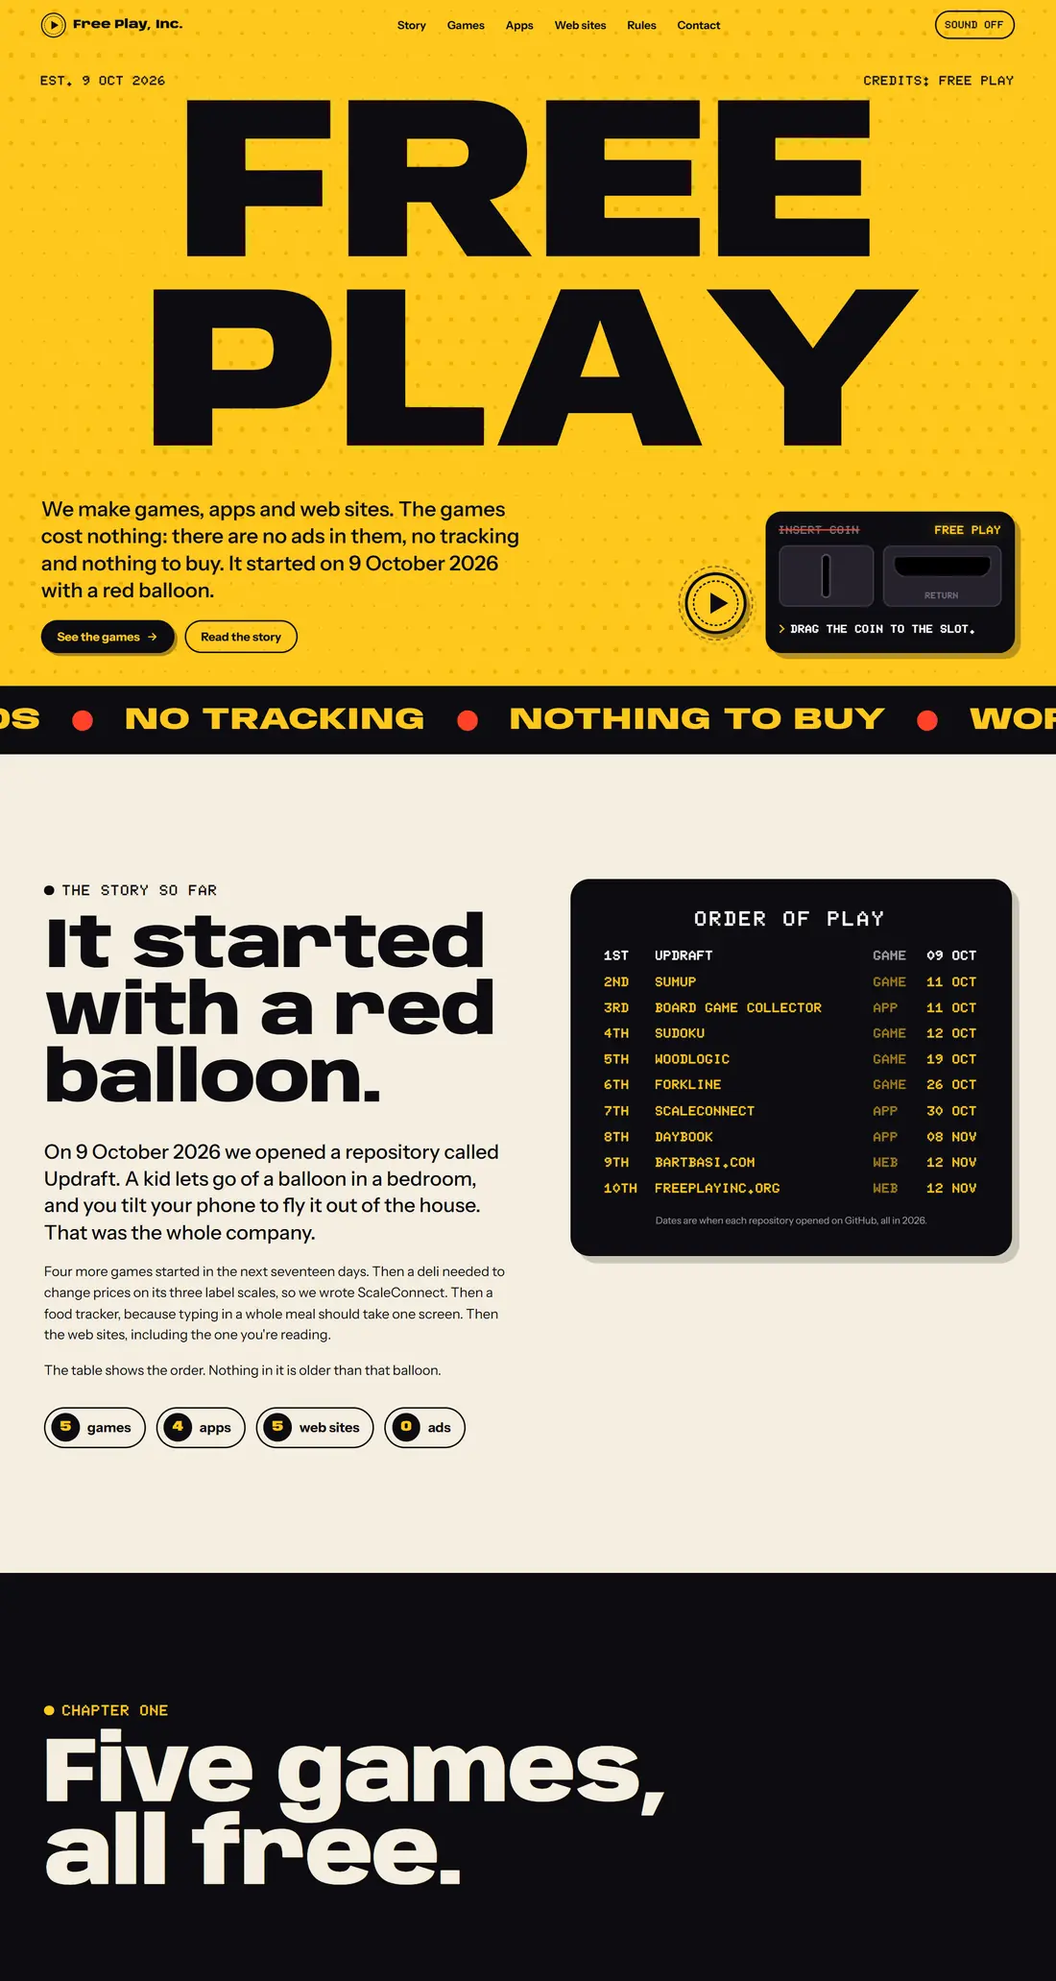
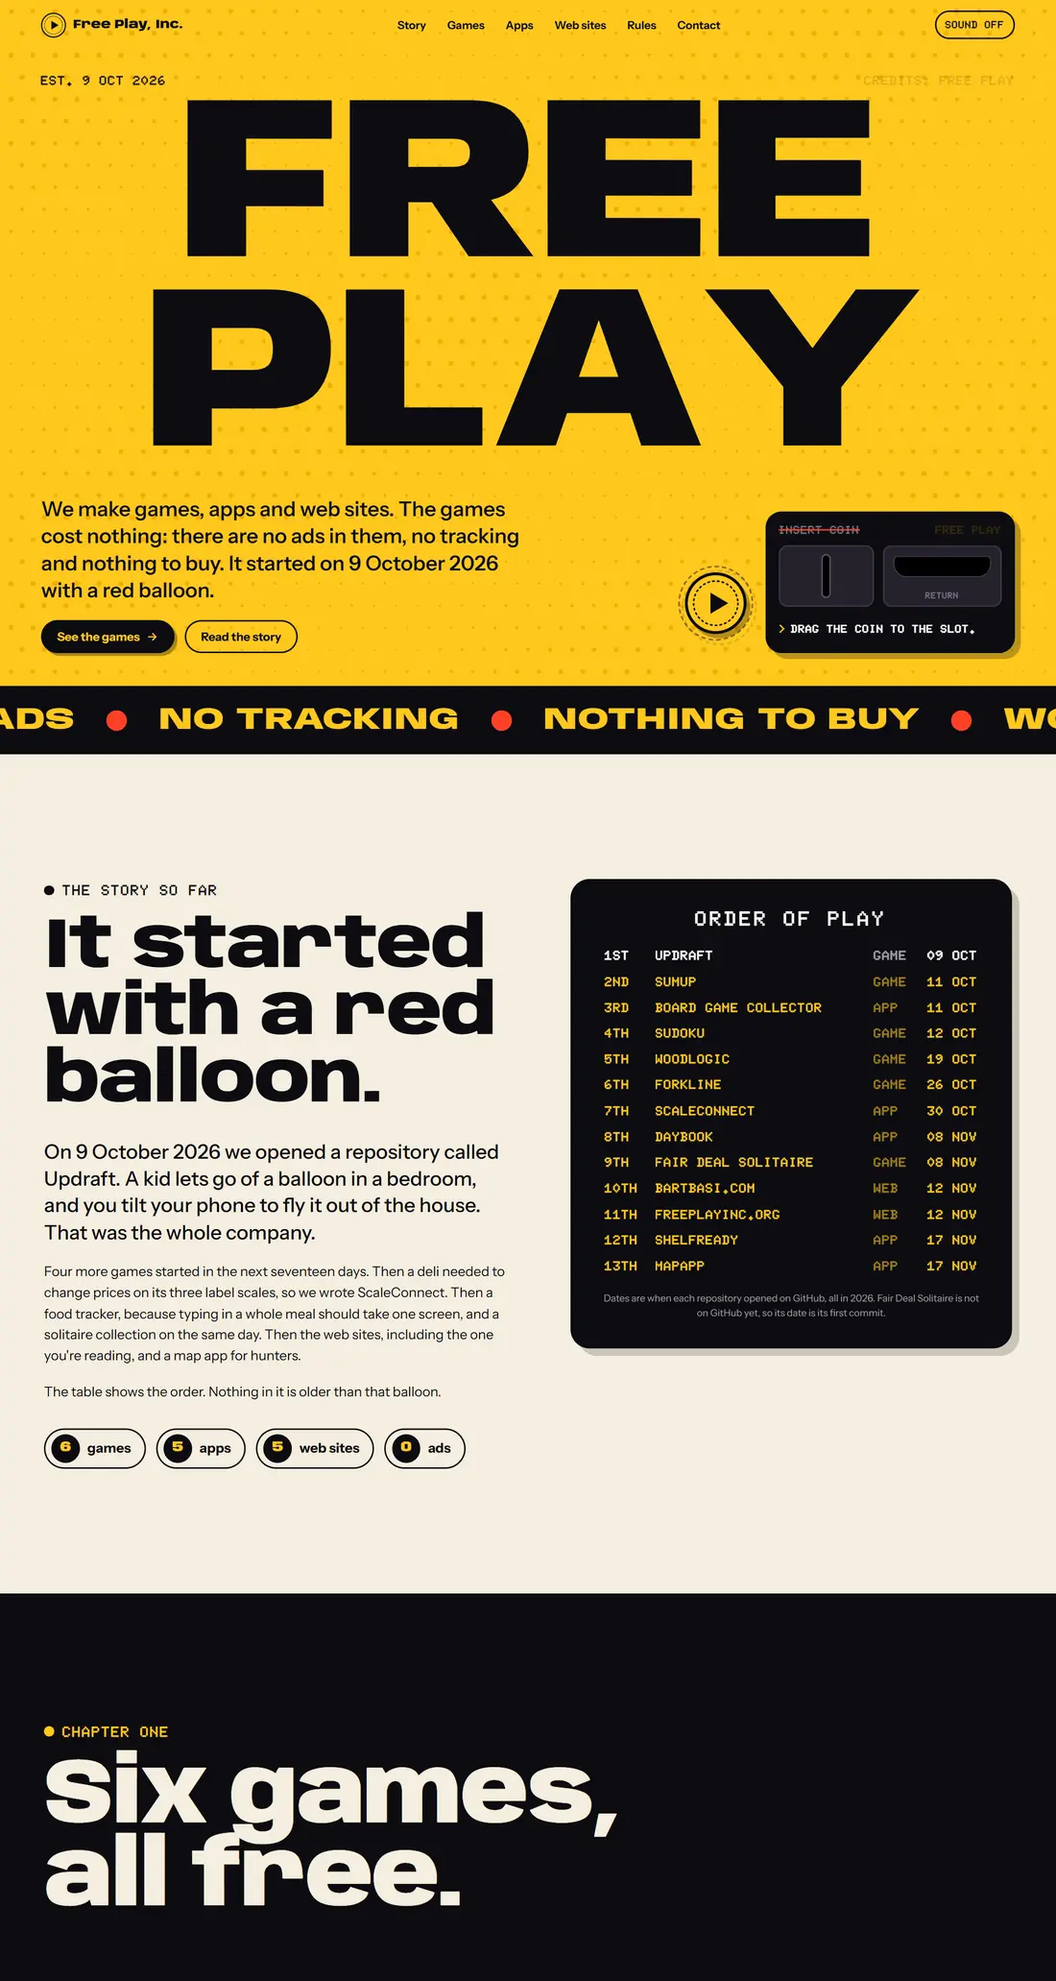
Add Fair Deal Solitaire and MapApp, and update ShelfReady
Matches freeplayinc.org: a sixth game, a fifth app, and the ShelfReady
section rewritten from its public repository.

diff --git a/index.html b/index.html
@@ -111,11 +111,11 @@
       <p class="eyebrow" data-rv>The story so far</p>
       <h2 class="h2" data-rv>It started with a red balloon.</h2>
       <p class="big" data-rv>On 9 October 2026 we opened a repository called Updraft. A kid lets go of a balloon in a bedroom, and you tilt your phone to fly it out of the house. That was the whole company.</p>
-      <p data-rv>Four more games started in the next seventeen days. Then a deli needed to change prices on its three label scales, so we wrote ScaleConnect. Then a food tracker, because typing in a whole meal should take one screen. Then the web sites, including the one you're reading.</p>
+      <p data-rv>Four more games started in the next seventeen days. Then a deli needed to change prices on its three label scales, so we wrote ScaleConnect. Then a food tracker, because typing in a whole meal should take one screen, and a solitaire collection on the same day. Then the web sites, including the one you're reading, and a map app for hunters.</p>
       <p data-rv>The table shows the order. Nothing in it is older than that balloon.</p>
       <ul class="tally" data-rv>
-        <li><b>5</b> games</li>
-        <li><b>4</b> apps</li>
+        <li><b>6</b> games</li>
+        <li><b>5</b> apps</li>
         <li><b>5</b> web sites</li>
         <li><b>0</b> ads</li>
       </ul>
@@ -132,10 +132,13 @@
         <li><a href="#forkline"><span>6th</span><span>Forkline</span><span>Game</span><time datetime="2026-10-26">26 Oct</time></a></li>
         <li><a href="#scaleconnect"><span>7th</span><span>ScaleConnect</span><span>App</span><time datetime="2026-10-30">30 Oct</time></a></li>
         <li><a href="#daybook"><span>8th</span><span>Daybook</span><span>App</span><time datetime="2026-11-08">08 Nov</time></a></li>
-        <li><a href="#web"><span>9th</span><span>bartbasi.com</span><span>Web</span><time datetime="2026-11-12">12 Nov</time></a></li>
-        <li><a href="#web"><span>10th</span><span>freeplayinc.org</span><span>Web</span><time datetime="2026-11-12">12 Nov</time></a></li>
+        <li><a href="#fairdeal"><span>9th</span><span>Fair Deal Solitaire</span><span>Game</span><time datetime="2026-11-08">08 Nov</time></a></li>
+        <li><a href="#web"><span>10th</span><span>bartbasi.com</span><span>Web</span><time datetime="2026-11-12">12 Nov</time></a></li>
+        <li><a href="#web"><span>11th</span><span>freeplayinc.org</span><span>Web</span><time datetime="2026-11-12">12 Nov</time></a></li>
+        <li><a href="#shelfready"><span>12th</span><span>ShelfReady</span><span>App</span><time datetime="2026-11-17">17 Nov</time></a></li>
+        <li><a href="#mapapp"><span>13th</span><span>MapApp</span><span>App</span><time datetime="2026-11-17">17 Nov</time></a></li>
       </ol>
-      <p class="scores__note">Dates are when each repository opened on GitHub, all in 2026.</p>
+      <p class="scores__note">Dates are when each repository opened on GitHub, all in 2026. Fair Deal Solitaire is not on GitHub yet, so its date is its first commit.</p>
     </div>
   </div>
 </section>
@@ -144,10 +147,10 @@
 <section class="chapter chapter--games" id="games" data-head="light">
   <div class="wrap">
     <p class="eyebrow" data-rv>Chapter one</p>
-    <h2 class="h2 h2--xl" data-rv>Five games, all free.</h2>
+    <h2 class="h2 h2--xl" data-rv>Six games, all free.</h2>
     <div class="chapter__cols">
       <p class="big" data-rv>Each one plays offline, keeps your progress on your phone and asks for no Android permissions.</p>
-      <p data-rv>They are built in Godot 4, and every picture, effect, sound and song is made by the game's own code. The source is public. Here they are in the order they started.</p>
+      <p data-rv>They are built in Godot 4, and every picture, effect, sound and song is made by the game's own code. Five have public source code, and the sixth is still being built. Here they are in the order they started.</p>
     </div>
   </div>
 </section>
@@ -158,7 +161,7 @@
     <div class="game__card">
       <div class="game__in">
         <div class="game__info">
-          <p class="game__meta readout"><span>01 / 05</span><span>Started 9 Oct 2026</span></p>
+          <p class="game__meta readout"><span>01 / 06</span><span>Started 9 Oct 2026</span></p>
           <div class="game__name">
             <img class="game__icon" src="/img/updraft/icon.webp" width="192" height="192" alt="">
             <h3>Updraft</h3>
@@ -191,7 +194,7 @@
     <div class="game__card">
       <div class="game__in">
         <div class="game__info">
-          <p class="game__meta readout"><span>02 / 05</span><span>Started 11 Oct 2026</span></p>
+          <p class="game__meta readout"><span>02 / 06</span><span>Started 11 Oct 2026</span></p>
           <div class="game__name">
             <img class="game__icon" src="/img/sumup/icon.webp" width="192" height="192" alt="">
             <h3>SumUp</h3>
@@ -223,7 +226,7 @@
     <div class="game__card">
       <div class="game__in">
         <div class="game__info">
-          <p class="game__meta readout"><span>03 / 05</span><span>Started 12 Oct 2026</span></p>
+          <p class="game__meta readout"><span>03 / 06</span><span>Started 12 Oct 2026</span></p>
           <div class="game__name">
             <img class="game__icon" src="/img/sudoku/icon.webp" width="192" height="192" alt="">
             <h3>Sudoku</h3>
@@ -255,7 +258,7 @@
     <div class="game__card">
       <div class="game__in">
         <div class="game__info">
-          <p class="game__meta readout"><span>04 / 05</span><span>Started 19 Oct 2026</span></p>
+          <p class="game__meta readout"><span>04 / 06</span><span>Started 19 Oct 2026</span></p>
           <div class="game__name">
             <img class="game__icon" src="/img/woodlogic/icon.webp" width="192" height="192" alt="">
             <h3>WoodLogic</h3>
@@ -287,7 +290,7 @@
     <div class="game__card">
       <div class="game__in">
         <div class="game__info">
-          <p class="game__meta readout"><span>05 / 05</span><span>Started 26 Oct 2026</span><span class="game__flag">In testing</span></p>
+          <p class="game__meta readout"><span>05 / 06</span><span>Started 26 Oct 2026</span><span class="game__flag">In testing</span></p>
           <div class="game__name">
             <img class="game__icon" src="/img/forkline/icon.webp" width="192" height="192" alt="">
             <h3>Forkline</h3>
@@ -316,6 +319,34 @@
     </div>
   </article>
 
+  <article class="game game--fairdeal" id="fairdeal" data-head="light">
+    <div class="game__card">
+      <div class="game__in">
+        <div class="game__info">
+          <p class="game__meta readout"><span>06 / 06</span><span>Started 8 Nov 2026</span><span class="game__flag">Being built</span></p>
+          <div class="game__name">
+            <img class="game__icon" src="/img/fairdeal/icon.webp" width="192" height="192" alt="">
+            <h3>Fair Deal Solitaire</h3>
+          </div>
+          <p class="tag">Solitaire where every deal can be won</p>
+          <p class="game__lede">A solitaire collection: Klondike, Spider, FreeCell and TriPeaks. Every default deal is proven winnable by the game's own solver, every deal has a number you can replay, and the game can show you how a deal is won.</p>
+          <ul class="feats">
+            <li>5,000 proven deals in each of seven modes</li>
+            <li>Hints that cost score points, never money, and free undo</li>
+            <li>Three looks to switch between: Lamplight, Classic table and Modern clean</li>
+            <li>A daily deal that is the same on every phone, with no network</li>
+          </ul>
+          <p class="fine">Not out yet. There is no download, and the repository is still private. These screens come from the style study.</p>
+        </div>
+        <div class="shots">
+          <figure class="shot" data-speed="50"><img src="/img/fairdeal/classic.webp" width="600" height="1537" loading="lazy" alt="Fair Deal Solitaire style study: a Spider deal in the Classic table look, white cards on green felt."></figure>
+          <figure class="shot" data-speed="-20"><img src="/img/fairdeal/klondike.webp" width="600" height="1537" loading="lazy" alt="Fair Deal Solitaire style study: a Klondike deal in the Lamplight look, cream cards on warm wood, with Undo, Hint, Restart and Show win buttons."></figure>
+          <figure class="shot" data-speed="80"><img src="/img/fairdeal/modern.webp" width="600" height="1537" loading="lazy" alt="Fair Deal Solitaire style study: a Spider deal in the Modern clean look, flat cards on a slate table."></figure>
+        </div>
+      </div>
+    </div>
+  </article>
+
 </div>
 
 <!-- Apps -->
@@ -324,8 +355,8 @@
     <p class="eyebrow" data-rv>Chapter two</p>
     <h2 class="h2 h2--xl" data-rv>Then the apps.</h2>
     <div class="chapter__cols">
-      <p class="big" data-rv>Four so far. Two are at work in a deli. Two are early, and their screenshots say so.</p>
-      <p data-rv>The first one started two days after the balloon. Three of the four have public source code.</p>
+      <p class="big" data-rv>Five so far. Two are at work in a deli. Three are unfinished, and their screenshots say so.</p>
+      <p data-rv>The first one started two days after the balloon. All five have public source code.</p>
     </div>
   </div>
 
@@ -372,16 +403,24 @@
       <div class="app__info">
         <p class="status status--live readout" data-rv>At the deli</p>
         <h3 class="h3" data-rv>ShelfReady</h3>
-        <p class="big" data-rv>Someone takes a photo of a supplier invoice. ShelfReady turns that photo into prices, Square inventory updates, scale updates and shelf labels.</p>
-        <p data-rv>It also sends the deli&rsquo;s fish order emails.</p>
+        <p class="big" data-rv>ShelfReady takes a supplier invoice, prices it, updates Square and the scales, and builds the shelf cards.</p>
+        <p data-rv>It was built for one deli, Cheese &amp; Crackers in Champaign, Illinois, with Square and three Tor-rey label scales. It has not been tried anywhere else. It shows a dry run of every change, before and after, and nothing is sent until a person approves it and presses Send.</p>
         <dl class="spec" data-rv>
-          <div><dt>Built for</dt><dd>Cheese &amp; Crackers, a gourmet deli in Champaign, Illinois</dd></div>
-          <div><dt>Goes in</dt><dd>One photo of an invoice</dd></div>
-          <div><dt>Comes out</dt><dd>Prices, Square inventory updates, scale updates, shelf labels</dd></div>
+          <div><dt>Goes in</dt><dd>A photo or PDF of a supplier invoice. The Claude API reads it, and code checks the math.</dd></div>
+          <div><dt>Square</dt><dd>It matches each line to an item in Square, asks a person when it is not sure, updates Square first and reads it back.</dd></div>
+          <div><dt>Scales</dt><dd>Scale prices go out through ScaleConnect. A person accepts every scale warning.</dd></div>
+          <div><dt>Shelf cards</dt><dd>Word files, ready to print. It renders each one to PDF to check it.</dd></div>
+          <div><dt>Also</dt><dd>It keeps a Mailchimp fish email up to date, and a purchase history spreadsheet with one tab per vendor.</dd></div>
+          <div><dt>Built with</dt><dd>TypeScript on Node.js 24, on Linux</dd></div>
+          <div><dt>License</dt><dd>GNU GPL v3 with additional terms. Copyright 2026 Cheese &amp; Crackers, Inc.</dd></div>
         </dl>
+        <p class="fine" data-rv>ShelfReady is not affiliated with, endorsed by, or supported by Square, Mailchimp, Tor-rey or Anthropic.</p>
+        <div class="btns" data-rv>
+          <a class="btn btn--solid" href="https://github.com/bartbasi/ShelfReady">Source code <svg aria-hidden="true"><use href="#i-arrow"/></svg></a>
+        </div>
       </div>
       <div class="app__visual" data-rv>
-        <div class="flow" role="img" aria-label="Drawing: a photo of a supplier invoice goes into ShelfReady, which produces prices, Square inventory updates, scale updates and shelf labels.">
+        <div class="flow" role="img" aria-label="Drawing: a supplier invoice goes into ShelfReady, which produces prices, Square updates, scale prices, shelf cards, the fish email and a purchase history.">
           <div class="flow__doc" aria-hidden="true">
             <b>Invoice</b>
             <i></i><i></i><i></i><i></i><i></i>
@@ -392,12 +431,14 @@
           <div class="flow__pipe flow__pipe--fan" aria-hidden="true"></div>
           <ul class="flow__out" aria-hidden="true">
             <li>Prices</li>
-            <li>Square inventory</li>
-            <li>Scale updates</li>
-            <li>Shelf labels</li>
+            <li>Square updates</li>
+            <li>Scale prices</li>
+            <li>Shelf cards</li>
+            <li>Fish email</li>
+            <li>Purchase history</li>
           </ul>
         </div>
-        <p class="cap">A drawing of what goes in and what comes out.</p>
+        <p class="cap">A drawing of what goes in and what comes out. There are no screenshots of it here yet.</p>
       </div>
     </article>
 
@@ -453,6 +494,35 @@
           <figure class="shot"><img src="/img/boardgames/enter.webp" width="780" height="1688" loading="lazy" alt="Board Game Collector barcode entry screen with a Look up button."></figure>
         </div>
         <p class="cap">Real screens from the app's own test suite, taken as they are today.</p>
+      </div>
+    </article>
+
+    <article class="app" id="mapapp">
+      <div class="app__info">
+        <p class="status readout" data-rv>Work in progress</p>
+        <h3 class="h3" data-rv>MapApp</h3>
+        <p class="big" data-rv>A free, open source GPS mapping app for hunters. Its first job is to show where the phone is against the property lines, with no cell signal.</p>
+        <p data-rv>MapApp is a working title, and there is no release yet. It will never have accounts, ads, analytics or data collection. What you save stays on your phone.</p>
+        <dl class="spec" data-rv>
+          <div><dt>Covers now</dt><dd>Android, in 2D. Champaign County and Macon County, Illinois.</dd></div>
+          <div><dt>Views</dt><dd>A map view, an aerial view and a hybrid view, with a public land layer</dd></div>
+          <div><dt>Position</dt><dd>The phone's GPS position, the parcel it is in, and the distance and direction to the nearest property line</dd></div>
+          <div><dt>Property lines</dt><dd>Macon County so far. Champaign County has none yet.</dd></div>
+          <div><dt>Built with</dt><dd>TypeScript, Svelte, MapLibre and Capacitor</dd></div>
+          <div><dt>License</dt><dd>GNU GPL v3 with additional terms</dd></div>
+        </dl>
+        <p class="fine" data-rv>Boundaries shown by MapApp come from public records. They are not a legal survey. Public land is not the same as land open to hunting.</p>
+        <div class="btns" data-rv>
+          <a class="btn btn--solid" href="https://github.com/bartbasi/MapApp">Source code <svg aria-hidden="true"><use href="#i-arrow"/></svg></a>
+        </div>
+      </div>
+      <div class="app__visual" data-rv>
+        <div class="shots shots--fan">
+          <figure class="shot"><img src="/img/mapapp/hybrid.webp" width="600" height="1162" loading="lazy" alt="MapApp hybrid view: property lines drawn over an aerial photo, with a warning that reads On or near a property line. GPS cannot tell which side."></figure>
+          <figure class="shot"><img src="/img/mapapp/readout.webp" width="600" height="1162" loading="lazy" alt="MapApp map view: the phone's position with a dashed line to the nearest property line, and a readout that says the line is 213 feet to the west."></figure>
+          <figure class="shot"><img src="/img/mapapp/publicland.webp" width="720" height="1560" loading="lazy" alt="MapApp public land details for a county forest preserve: who manages it, its size, and a note that hunting is not allowed, with the source."></figure>
+        </div>
+        <p class="cap">Screens from the project's test runs, taken from its repository. Owner names are masked. Map data: OpenStreetMap contributors. Imagery: USDA NAIP. Parcels: Macon County, Illinois GIS.</p>
       </div>
     </article>
 
@@ -543,7 +613,7 @@
       <li data-rv><h3>No tracking</h3><p>No accounts, no analytics and no tracking of any kind.</p></li>
       <li data-rv><h3>Fully offline</h3><p>The games never connect to the internet and ask for no Android permissions.</p></li>
       <li data-rv><h3>Your phone, your progress</h3><p>Saves stay on your phone. Nothing is sent anywhere.</p></li>
-      <li data-rv><h3>Open source</h3><p>Every game's source code is public, under the GNU GPL v3 with additional terms.</p></li>
+      <li data-rv><h3>Open source</h3><p>Every game is free software under the GNU GPL v3 with additional terms. Five have public source code. The sixth, Fair Deal Solitaire, is still being built.</p></li>
       <li data-rv><h3>Made in code</h3><p>Every picture, effect, sound and song is made by the game's own code.</p></li>
     </ol>
   </div>
@@ -575,6 +645,7 @@
         <li><a href="#sudoku">Sudoku</a></li>
         <li><a href="#woodlogic">WoodLogic</a></li>
         <li><a href="#forkline">Forkline</a></li>
+        <li><a href="#fairdeal">Fair Deal Solitaire</a></li>
       </ul>
     </div>
     <div>
@@ -584,6 +655,7 @@
         <li><a href="#shelfready">ShelfReady</a></li>
         <li><a href="#daybook">Daybook</a></li>
         <li><a href="#boardgames">Board Game Collector</a></li>
+        <li><a href="#mapapp">MapApp</a></li>
       </ul>
     </div>
     <div>

diff --git a/css/site.css b/css/site.css
@@ -385,14 +385,18 @@ button { font: inherit; color: inherit; }
 .shots--two { grid-template-columns: repeat(2, minmax(0, 1fr)); gap: clamp(14px, 2vw, 28px); max-width: 520px; padding: 0; }
 .shots--two .shot:nth-child(1) { --r: -3deg; }
 .shots--two .shot:nth-child(2) { --r: 3deg; margin-top: 12%; }
+.app__visual .shots--fan { margin-block: 6% 4%; }
+.app__visual .shots--fan .shot { border-color: var(--ink); }
 
 .game--updraft { --bg: #bcd4f2; --fg: #2c2740; --accent: #e9463b; --on-accent: #fff; --accent-text: #b3261c; }
 .game--updraft .game__card { background: linear-gradient(180deg, #a9c8f0 0%, #cfdcf3 45%, #f3d9e2 100%); }
 .game--sumup { --bg: #15102e; --fg: #f6f3ff; --accent: #ff5d9e; --on-accent: #15102e; }
-.game--sumup .shot, .game--forkline .shot, .game--woodlogic .shot { border-color: var(--fg); }
+.game--sumup .shot, .game--forkline .shot, .game--woodlogic .shot, .game--fairdeal .shot { border-color: var(--fg); }
 .game--sudoku { --bg: #fdeea4; --fg: #14121a; --accent: #2f6bff; --on-accent: #fff; --accent-text: #1c48c9; }
 .game--woodlogic { --bg: #6b4424; --fg: #fdf0d8; --accent: #f3c14b; }
 .game--woodlogic .game__card { background: repeating-linear-gradient(92deg, rgba(0, 0, 0, .05) 0 3px, transparent 3px 46px), linear-gradient(180deg, #7d5330, #5f3b1f); }
+.game--fairdeal { --bg: #17402f; --fg: #f8efd9; --accent: #eab94a; }
+.game--fairdeal .game__card { background: radial-gradient(ellipse 70% 55% at 68% 38%, rgba(255, 214, 130, .2), transparent 70%), repeating-linear-gradient(45deg, rgba(255, 255, 255, .025) 0 2px, transparent 2px 6px), linear-gradient(180deg, #1d4c38, #123326); }
 .game--forkline { --bg: #2a2352; --fg: #f8eed6; --accent: #f6b73c; }
 .game--forkline .game__card { background: radial-gradient(1px 1px at 12% 18%, #fff 50%, transparent 51%), radial-gradient(1.5px 1.5px at 34% 9%, #fff 50%, transparent 51%), radial-gradient(1px 1px at 58% 22%, #fff 50%, transparent 51%), radial-gradient(1.5px 1.5px at 77% 12%, #fff 50%, transparent 51%), radial-gradient(1px 1px at 91% 30%, #fff 50%, transparent 51%), radial-gradient(1px 1px at 22% 38%, #fff 50%, transparent 51%), linear-gradient(180deg, #221c46, #3a2f6b); }
 
@@ -463,9 +467,9 @@ button { font: inherit; color: inherit; }
 @keyframes pipe { to { background-position: 0 16px; } }
 .flow__core { font-family: var(--display); font-weight: 900; font-stretch: 118%; font-size: clamp(1.5rem, 1.1rem + 1.6vw, 2.4rem); line-height: 1; background: var(--ink); color: var(--gold); padding: .55em .9em; border-radius: 14px; }
 .flow__out { display: grid; grid-template-columns: repeat(2, minmax(0, 1fr)); gap: 10px; width: 100%; border-top: 4px dashed var(--ink); padding-top: 16px; }
-.flow__out li { background: #fff; border: 3px solid var(--ink); border-radius: 12px; padding: .7em .8em; font-weight: 700; text-align: center; line-height: 1.2; animation: pop 4.8s infinite; animation-delay: calc(var(--i, 0) * 1.2s); }
-.flow__out li:nth-child(2) { --i: 1; } .flow__out li:nth-child(3) { --i: 2; } .flow__out li:nth-child(4) { --i: 3; }
-@keyframes pop { 0%, 22%, 100% { background: #fff; transform: none; } 6%, 14% { background: var(--ink); color: var(--gold); transform: translateY(-4px); } }
+.flow__out li { background: #fff; border: 3px solid var(--ink); border-radius: 12px; padding: .7em .8em; font-weight: 700; text-align: center; line-height: 1.2; animation: pop 7.2s infinite; animation-delay: calc(var(--i, 0) * 1.2s); }
+.flow__out li:nth-child(2) { --i: 1; } .flow__out li:nth-child(3) { --i: 2; } .flow__out li:nth-child(4) { --i: 3; } .flow__out li:nth-child(5) { --i: 4; } .flow__out li:nth-child(6) { --i: 5; }
+@keyframes pop { 0%, 15%, 100% { background: #fff; transform: none; } 4%, 9.5% { background: var(--ink); color: var(--gold); transform: translateY(-4px); } }
 
 .typed { border: 3px solid var(--ink); border-radius: 20px; background: var(--ink); color: #fff; padding: clamp(18px, 3vw, 32px); box-shadow: 8px 8px 0 var(--gold-deep); }
 .typed__label { color: var(--gold); margin-bottom: .9rem; }
